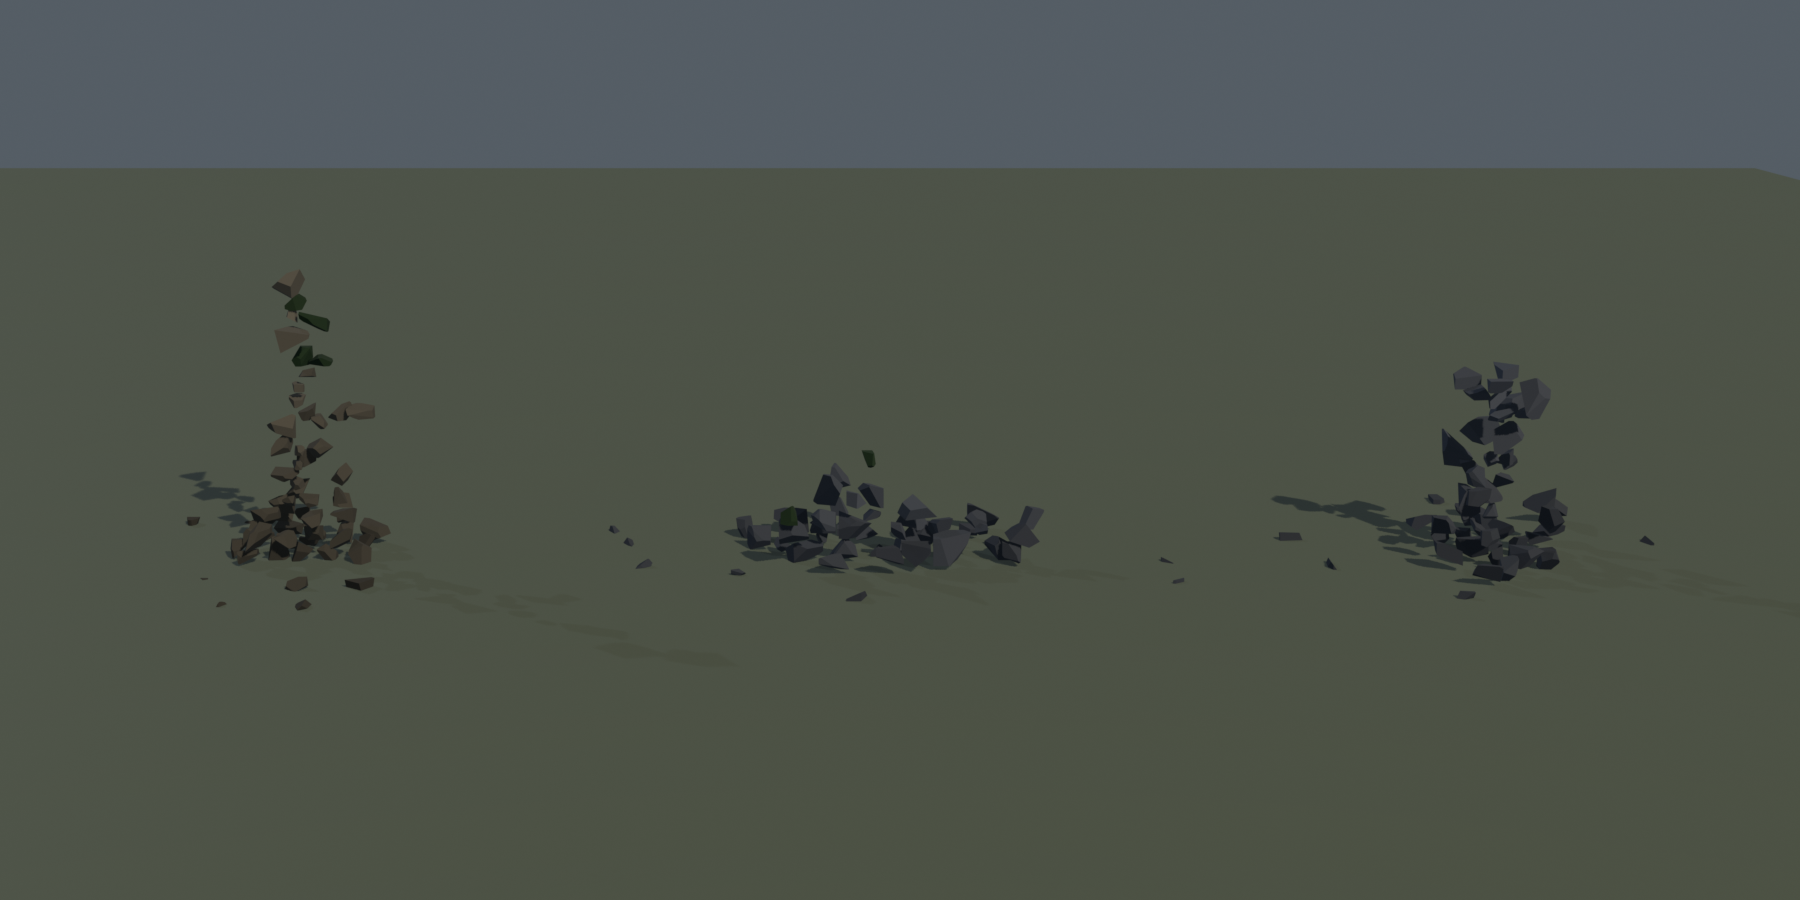
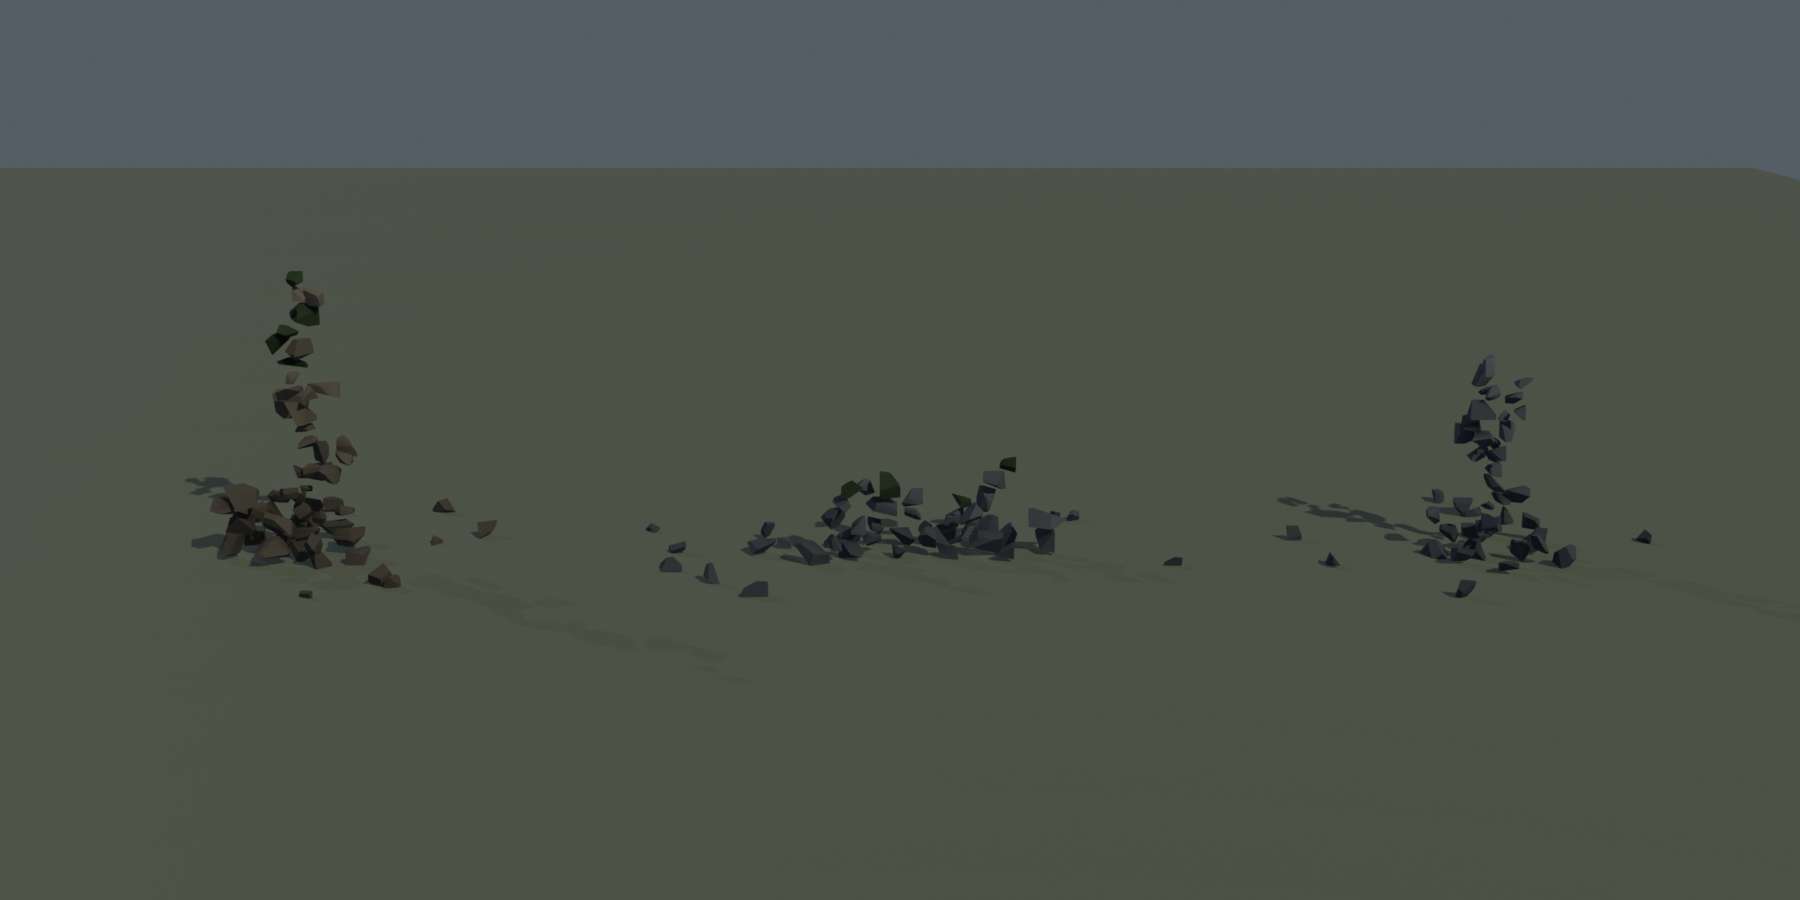
feat(biome_ao): bake ambient occlusion into vertex colour
Contact darkness between packed stones cannot come from a height gradient:
darkness in a pile is about ENCLOSURE, not orientation. bake_vertex_ao casts a
cosine-weighted hemisphere of rays per vertex against a BVH of the finished mesh
and multiplies the result into the existing FLOAT_COLOR layer.

Measured on the aggregates: ao_mean 0.80-0.90 by how enclosed the formation is,
ao_min hitting the 0.18 floor, so fully enclosed vertices exist. Deterministic
(golden-ratio direction set, no rng draws) so a bake cannot reshuffle a build.

No GPU involved and none needed: this bakes to VERTICES, not to a texture. These
packs have no UVs - all their colour lives in FLOAT_COLOR - so there is no image
to bake into. Raising showcase renders to Cycles would not improve an asset
either; the renders are the measuring instrument, not the product.

Floating stones are NOT fixed. Three attempts failed for one reason: each time
the stone's size was MODELLED rather than MEASURED. The chunk is normalised so
its maximum extent equals the radius in ANY direction, so its true half-height is
smaller than radius x flatten and stones settle with air beneath them. The fix is
to build, measure real extents, then settle - an ordering change, not a patch.

diff --git a/recetas/biome_facet.py b/recetas/biome_facet.py
@@ -356,11 +356,11 @@ def add_stone_aggregate(bm, vcol, center, spec, rng):
     origin = Vector(center)
     made_faces = []
 
-    def place_stone(pos, stone_r, height_t, allow_moss):
+    def place_stone(pos, stone_r, height_t, allow_moss, elong_s, flat_s):
         coords, faces = _convex_chunk(
             rng, stone_r, cuts=cuts, bedding=spec.get("bedding", 0),
             bedding_jitter=spec.get("bedding_jitter", 0.10),
-            elongate=rng.uniform(0.85, 1.25), flatten=rng.uniform(0.72, 1.10),
+            elongate=elong_s, flatten=flat_s,
         )
         verts = [bm.verts.new(pos + c) for c in coords]
         for idx in faces:
@@ -394,22 +394,34 @@ def add_stone_aggregate(bm, vcol, center, spec, rng):
     # stones read as one mass when their centres sit at ADJACENCY x the sum of
     # their radii. Given the horizontal gap, that fixes the vertical drop exactly,
     # so stones interlock instead of leaving the gaps the loose version had.
-    seats = []          # (Vector centre, radius, height_fraction)
+    seats = []          # (centre, radius, elongate, flatten)
     for _i in range(n):
         t = rng.random() ** 1.45
         env = _envelope_radius(t, profile)
         ang = rng.uniform(0.0, math.tau)
         rad = R * env * math.sqrt(rng.random())
         stone_r = R * stone_frac * (1.0 - 0.40 * t) * rng.uniform(0.78, 1.25)
+        # The stone's own squash is drawn HERE, not inside place_stone, because
+        # the settle has to know it. The first version modelled every stone as a
+        # sphere of its nominal radius while building them flattened by 0.72-1.10,
+        # so a stone could come to rest with up to 28% of its radius of air
+        # beneath it. Floating stones survived two "fixes" because of it.
+        elong_s = rng.uniform(0.85, 1.25)
+        flat_s = rng.uniform(0.72, 1.10)
         x = math.cos(ang) * rad * elongate
         y = math.sin(ang) * rad
-        z = stone_r * 0.55          # resting on the ground, part-buried
-        for pc, pr, _pt in seats:
-            reach = ADJACENCY * (stone_r + pr)
+        z = stone_r * flat_s * 0.55       # on the ground, part-buried
+        for pc, pr, _pe, pf in seats:
+            # Anisotropic contact: horizontal reach uses the nominal radii, the
+            # vertical drop uses the SQUASHED ones. Ellipsoid contact, which is
+            # what these stones actually are.
+            reach_h = ADJACENCY * (stone_r * max(elong_s, 1.0) + pr * max(_pe, 1.0))
+            reach_v = ADJACENCY * (stone_r * flat_s + pr * pf)
             d = math.hypot(x - pc.x, y - pc.y)
-            if d < reach:
-                z = max(z, pc.z + math.sqrt(reach * reach - d * d))
-        seats.append((Vector((x, y, z)), stone_r, t))
+            if d < reach_h:
+                drop = reach_v * math.sqrt(max(0.0, 1.0 - (d / reach_h) ** 2))
+                z = max(z, pc.z + drop)
+        seats.append((Vector((x, y, z)), stone_r, elong_s, flat_s))
 
     # Height is an OUTCOME of the packing, so the formation is rescaled to honour
     # the spec — but UNIFORMLY, positions and stone radii together.
@@ -419,27 +431,28 @@ def add_stone_aggregate(bm, vcol, center, spec, rng):
     # each stone off the one holding it up. Floating stones came back on the very
     # pass that was meant to have fixed them. A uniform scale preserves every
     # distance ratio, so contact survives by construction.
-    top = max((c.z + r for c, r, _t in seats), default=1.0)
+    top = max((c.z + r * f for c, r, _e, f in seats), default=1.0)
     k = min(1.6, max(0.6, H / max(top, 1e-6)))
 
-    for c, stone_r, _t in seats:
+    for c, stone_r, elong_s, flat_s in seats:
         pos = origin + c * k
         # Moss follows where the stone ENDED UP, not where it was drawn.
         place_stone(pos, stone_r * k, min(1.0, (c.z * k) / max(H, 1e-6)),
-                    allow_moss=True)
+                    True, elong_s, flat_s)
 
     for _i in range(outliers):
         # Loose stones at the foot. In the references these are what stop the
         # formation from having a hard contact line with the ground.
         ang = rng.uniform(0.0, math.tau)
         rad = R * rng.uniform(1.0, 1.55)
+        out_r = R * stone_frac * rng.uniform(0.35, 0.70)
+        out_flat = rng.uniform(0.72, 1.10)
         pos = origin + Vector((
             math.cos(ang) * rad * elongate,
             math.sin(ang) * rad,
-            R * stone_frac * rng.uniform(-0.25, 0.10),
+            out_r * out_flat * rng.uniform(0.15, 0.55),
         ))
-        place_stone(pos, R * stone_frac * rng.uniform(0.35, 0.70), 0.0,
-                    allow_moss=False)
+        place_stone(pos, out_r, 0.0, False, rng.uniform(0.85, 1.25), out_flat)
 
     return made_faces
 

diff --git a/recetas/biome_ao.py b/recetas/biome_ao.py
@@ -1,0 +1,101 @@
+# biome_ao.py -- ambient occlusion baked straight into the vertex colour.
+#
+# WHY VERTEX AND NOT TEXTURE (2026-08-08)
+#
+# Joan asked whether the motor was running at maximum "con gpu". The honest
+# answer for this job is that the GPU is not the lever: baking AO to a TEXTURE
+# needs UVs, an image, and a render engine, and none of these packs have UVs --
+# all their colour lives in FLOAT_COLOR vertex layers. Baking to VERTICES needs
+# only a BVH and some rays, runs on the CPU in milliseconds, and the result
+# travels inside the GLB where Godot draws it. A prettier Blender render would
+# not have improved a single asset; this does.
+#
+# What it buys, concretely: the dark contact zones between packed stones. The
+# reference rock sheets have deep darkness where stones meet, and a per-vertex
+# height gradient cannot produce it -- darkness in a pile is about ENCLOSURE,
+# not about height.
+import math
+
+from mathutils import Vector
+from mathutils.bvhtree import BVHTree
+
+
+def _hemisphere_dirs(n):
+    """`n` cosine-weighted directions on the +Z hemisphere.
+
+    Deterministic (golden-ratio sequence, no rng draws) so a bake never
+    reshuffles anything else in a build, and two runs are byte-identical.
+    Cosine weighting is the physically right distribution for diffuse
+    occlusion: samples cluster where the surface actually gathers light.
+    """
+    dirs = []
+    for i in range(n):
+        u = (i + 0.5) / n
+        v = (i * 0.618033988749895) % 1.0
+        r = math.sqrt(u)
+        theta = math.tau * v
+        dirs.append(Vector((r * math.cos(theta), r * math.sin(theta),
+                            math.sqrt(max(0.0, 1.0 - u)))))
+    return dirs
+
+
+def _basis_from_normal(n):
+    """Orthonormal basis with `n` as +Z, avoiding the degenerate axis."""
+    helper = Vector((0.0, 0.0, 1.0)) if abs(n.z) < 0.9 else Vector((1.0, 0.0, 0.0))
+    t = n.cross(helper)
+    if t.length < 1e-9:
+        t = Vector((1.0, 0.0, 0.0))
+    t.normalize()
+    b = n.cross(t)
+    return t, b
+
+
+def bake_vertex_ao(bm, vcol, samples=20, max_dist=0.6, strength=0.85,
+                   min_factor=0.18, default_color=(1.0, 1.0, 1.0)):
+    """Multiply every entry of `vcol` by its vertex's ambient occlusion.
+
+    bm          the FINISHED bmesh -- every mass already placed. Baking a stone
+                before its neighbours exist measures nothing.
+    samples     rays per vertex. 20 is plenty for low-poly: the result is a
+                per-vertex value that gets interpolated across big faces anyway.
+    max_dist    metres. AO must be LOCAL or the whole formation goes uniformly
+                grey; roughly half a formation radius is the useful range.
+    strength    1.0 = fully dark where fully enclosed.
+    min_factor  floor, so a buried vertex still carries some hue instead of
+                collapsing to black. Godot has no ambient term to rescue it.
+
+    Returns (mean_factor, min_factor_seen) so the caller can print a number
+    instead of asserting that the bake "worked".
+    """
+    bm.normal_update()
+    tree = BVHTree.FromBMesh(bm, epsilon=0.0)
+    dirs = _hemisphere_dirs(samples)
+
+    # Offset ray origins off the surface, or every ray instantly hits the face
+    # it started on and the whole mesh bakes black. Scaled to the model so this
+    # works on a 0.2 m pebble and a 6 m boulder alike.
+    span = max((v.co.length for v in bm.verts), default=1.0)
+    eps = max(span * 1e-4, 1e-6)
+
+    total = 0.0
+    lowest = 1.0
+    for v in bm.verts:
+        n = v.normal
+        if n.length < 1e-9:
+            continue
+        t, b = _basis_from_normal(n)
+        origin = v.co + n * eps
+        hits = 0
+        for d in dirs:
+            world_d = t * d.x + b * d.y + n * d.z
+            if tree.ray_cast(origin, world_d, max_dist)[0] is not None:
+                hits += 1
+        ao = 1.0 - strength * (hits / float(samples))
+        ao = max(min_factor, ao)
+        total += ao
+        lowest = min(lowest, ao)
+        base = vcol.get(v, default_color)
+        vcol[v] = tuple(c * ao for c in base)
+
+    n_verts = max(len(bm.verts), 1)
+    return total / n_verts, lowest

diff --git a/recetas/_test_biome_facet.py b/recetas/_test_biome_facet.py
@@ -18,10 +18,12 @@ from mathutils import Vector
 HERE = os.path.dirname(os.path.abspath(__file__))
 sys.path.insert(0, HERE)
 
+import biome_ao  # noqa: E402
 import biome_facet  # noqa: E402
 import biome_vcol  # noqa: E402
 
 REN_DIR = os.path.join(HERE, "renders_facet")
+SUFFIX = "_noao" if os.environ.get("FACET_NO_AO") == "1" else ""
 os.makedirs(REN_DIR, exist_ok=True)
 
 SEED = 20260808
@@ -81,6 +83,13 @@ for i, spec in enumerate(VARIANTS):
     vcol = {}
     faces = biome_facet.add_stone_aggregate(bm, vcol, Vector((0.0, 0.0, 0.0)), spec, rng)
     biome_facet.flat_shade(faces)
+    # AO is baked on the FINISHED formation: the darkness we are after lives
+    # between neighbouring stones, so it cannot be computed per stone.
+    if os.environ.get("FACET_NO_AO") == "1":
+        ao_mean, ao_min = 1.0, 1.0
+    else:
+        ao_mean, ao_min = biome_ao.bake_vertex_ao(
+            bm, vcol, samples=20, max_dist=spec["radius"] * 0.55, strength=0.85)
     obj = biome_vcol.finalize_vcol_mesh(
         f"rock_{spec['key']}", bm, vcol,
         scene=scene,
@@ -95,7 +104,8 @@ for i, spec in enumerate(VARIANTS):
     objs.append(obj)
     tris = sum(len(p.vertices) - 2 for p in obj.data.polygons)
     print(f"[facet] {spec['key']:16s} verts={len(obj.data.vertices):4d} tris={tris:4d} "
-          f"height={obj.dimensions.z:.2f}m width={obj.dimensions.x:.2f}m")
+          f"height={obj.dimensions.z:.2f}m width={obj.dimensions.x:.2f}m "
+          f"ao_mean={ao_mean:.2f} ao_min={ao_min:.2f}")
 
 mat = biome_vcol.vcol_material("mat_rock_facet", roughness=0.85, specular=0.15)
 for obj in objs:
@@ -168,7 +178,7 @@ def render_to(path, loc, target, lens=40, res=(1800, 900)):
 
 
 mid_x = (len(VARIANTS) - 1) * SPACING * 0.5
-render_to("facet_hero.png", (mid_x, -11.0, 3.4), (mid_x, 0.0, 0.6))
-render_to("facet_playereye.png", (mid_x - 1.5, -9.0, 1.65), (mid_x, 0.3, 0.55), lens=35)
-render_to("facet_closeup.png", (1.0, -3.0, 1.15), (0.0, 0.0, 0.50), lens=55, res=(1400, 1000))
+render_to(f"facet_hero{SUFFIX}.png", (mid_x, -11.0, 3.4), (mid_x, 0.0, 0.6))
+render_to(f"facet_playereye{SUFFIX}.png", (mid_x - 1.5, -9.0, 1.65), (mid_x, 0.3, 0.55), lens=35)
+render_to(f"facet_closeup{SUFFIX}.png", (1.0, -3.0, 1.15), (0.0, 0.0, 0.50), lens=55, res=(1400, 1000))
 print("[facet] DONE")
